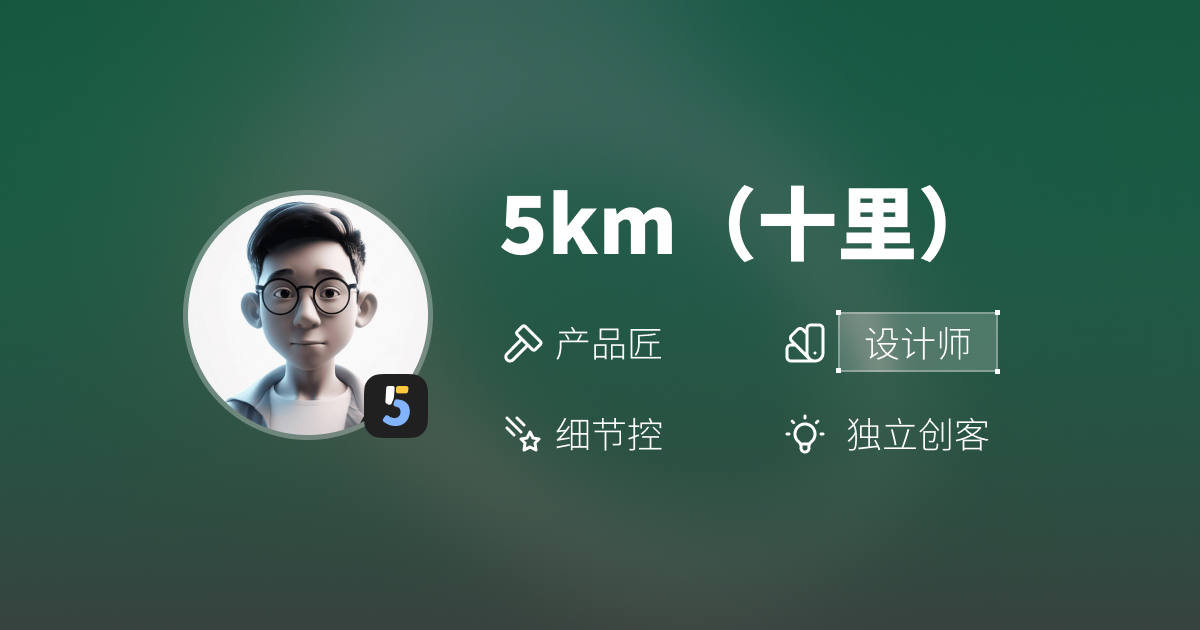
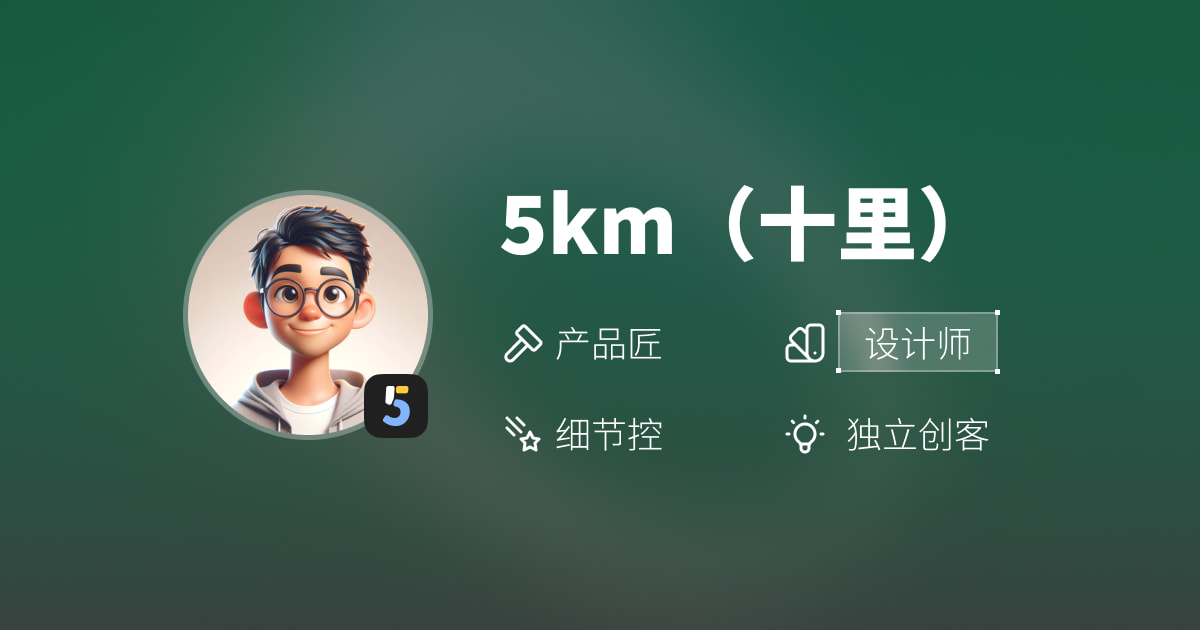
🦄 refactor(Portrait): change Portrait

Changed region(s): [[0.1542, 0.3016, 0.37, 0.6937]]

diff --git a/components/Avatar.tsx b/components/Avatar.tsx
@@ -3,7 +3,7 @@ import { clsxm } from '@zolplay/utils'
 import Image from 'next/image'
 import Link, { type LinkProps } from 'next/link'
 
-import portraitImage from '~/assets/Portrait.png'
+import portraitImage from '~/assets/Portrait.jpg'
 import portraitAltImage from '~/assets/PortraitAlt.jpg'
 
 function AvatarContainer({ className, ...props }: ComponentProps) {
